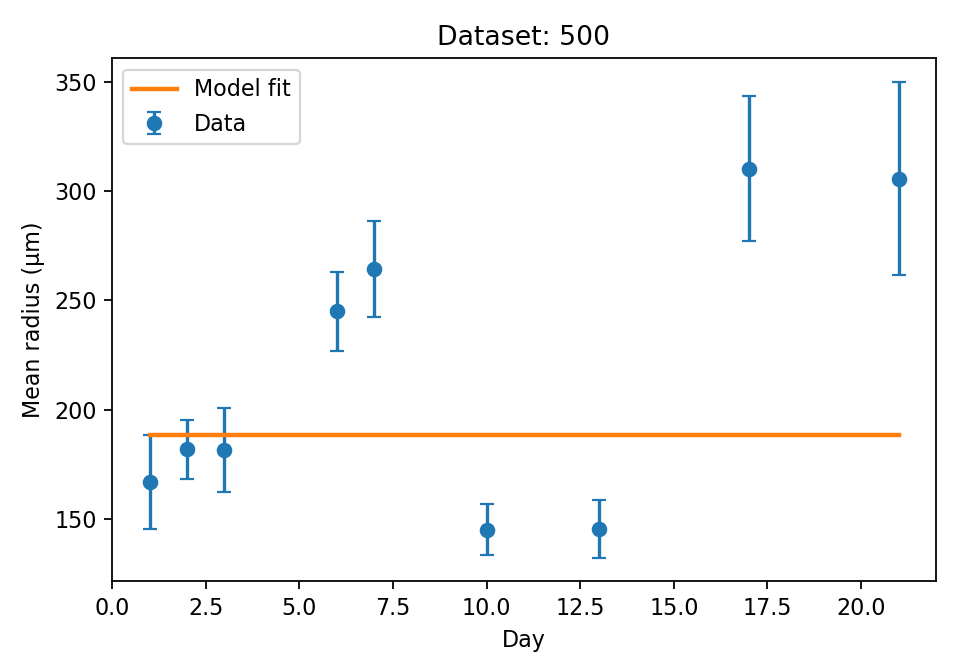
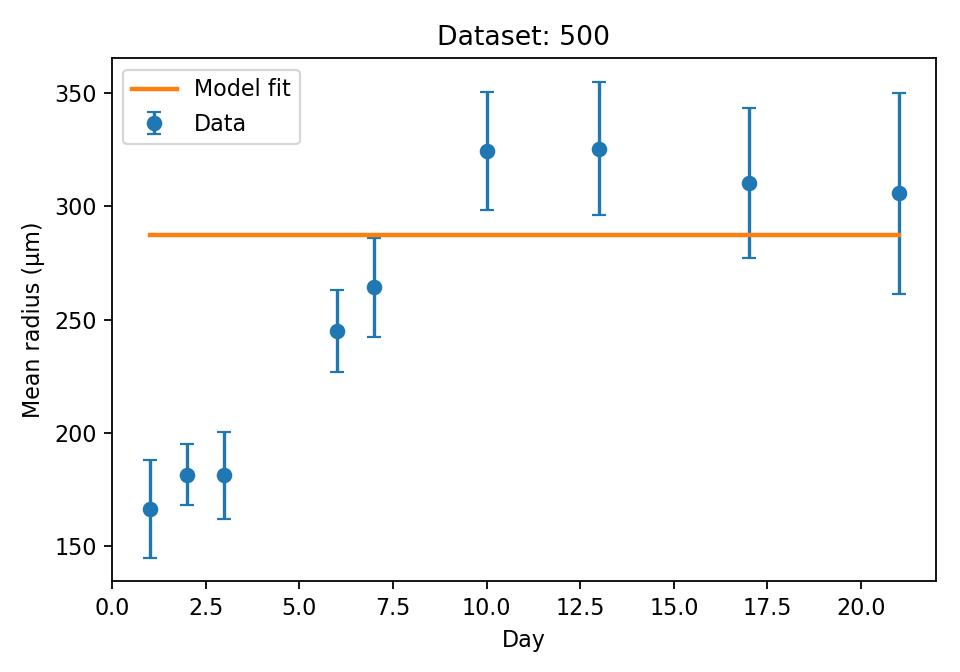
New fitting

diff --git a/Fisting/Fist.py b/Fisting/Fist.py
@@ -7,8 +7,7 @@
 #   H_t = D_H ∇²H + α N H (1 - H) - β (1 - N) H
 # BC: N = 1 (Dirichlet) at boundary; H Neumann (copy edges)
 # Radius extraction: R_sim(t) from area where H >= c (c = H_THRESH), then R = s * sqrt(A/π)
-#
-# Author: ChatGPT (GPT-5 Thinking) — 2025-10-26
+
 
 import os
 import json
@@ -42,7 +41,7 @@ except Exception:
 # =========================
 # ===== User config =======
 # =========================
-OUT_DIR = "fit_output"        # folder for all outputs
+OUT_DIR = "fit_output_simple"        # folder for all outputs
 DATA_GLOB = "*.txt"           # pattern for data files (your files like 500.txt, 2000.txt, etc.)
 SAVE_FIGS = True
 SAVE_JSON = True